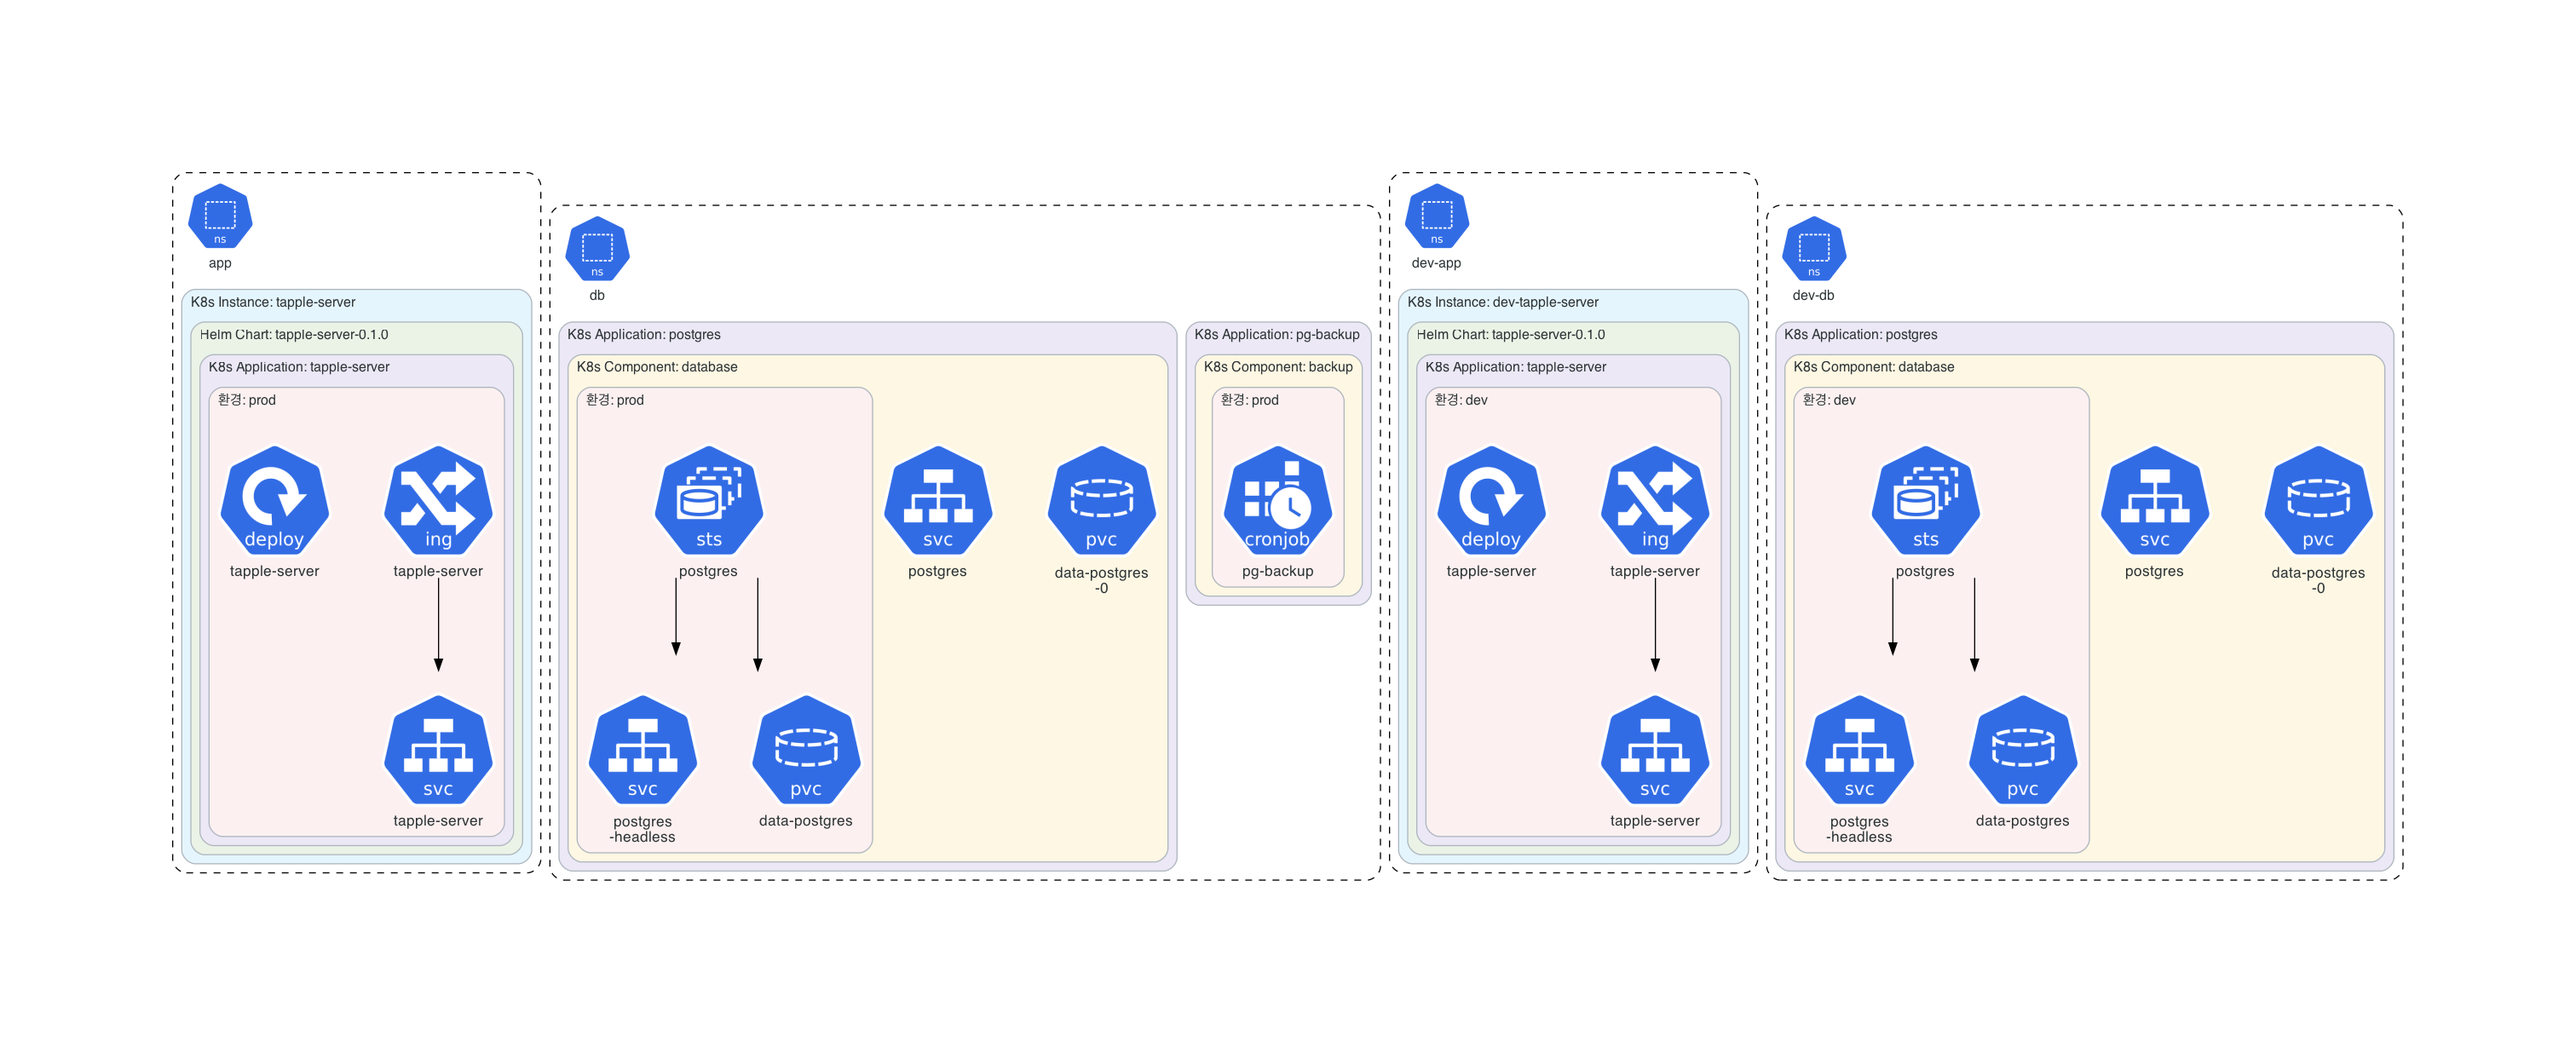
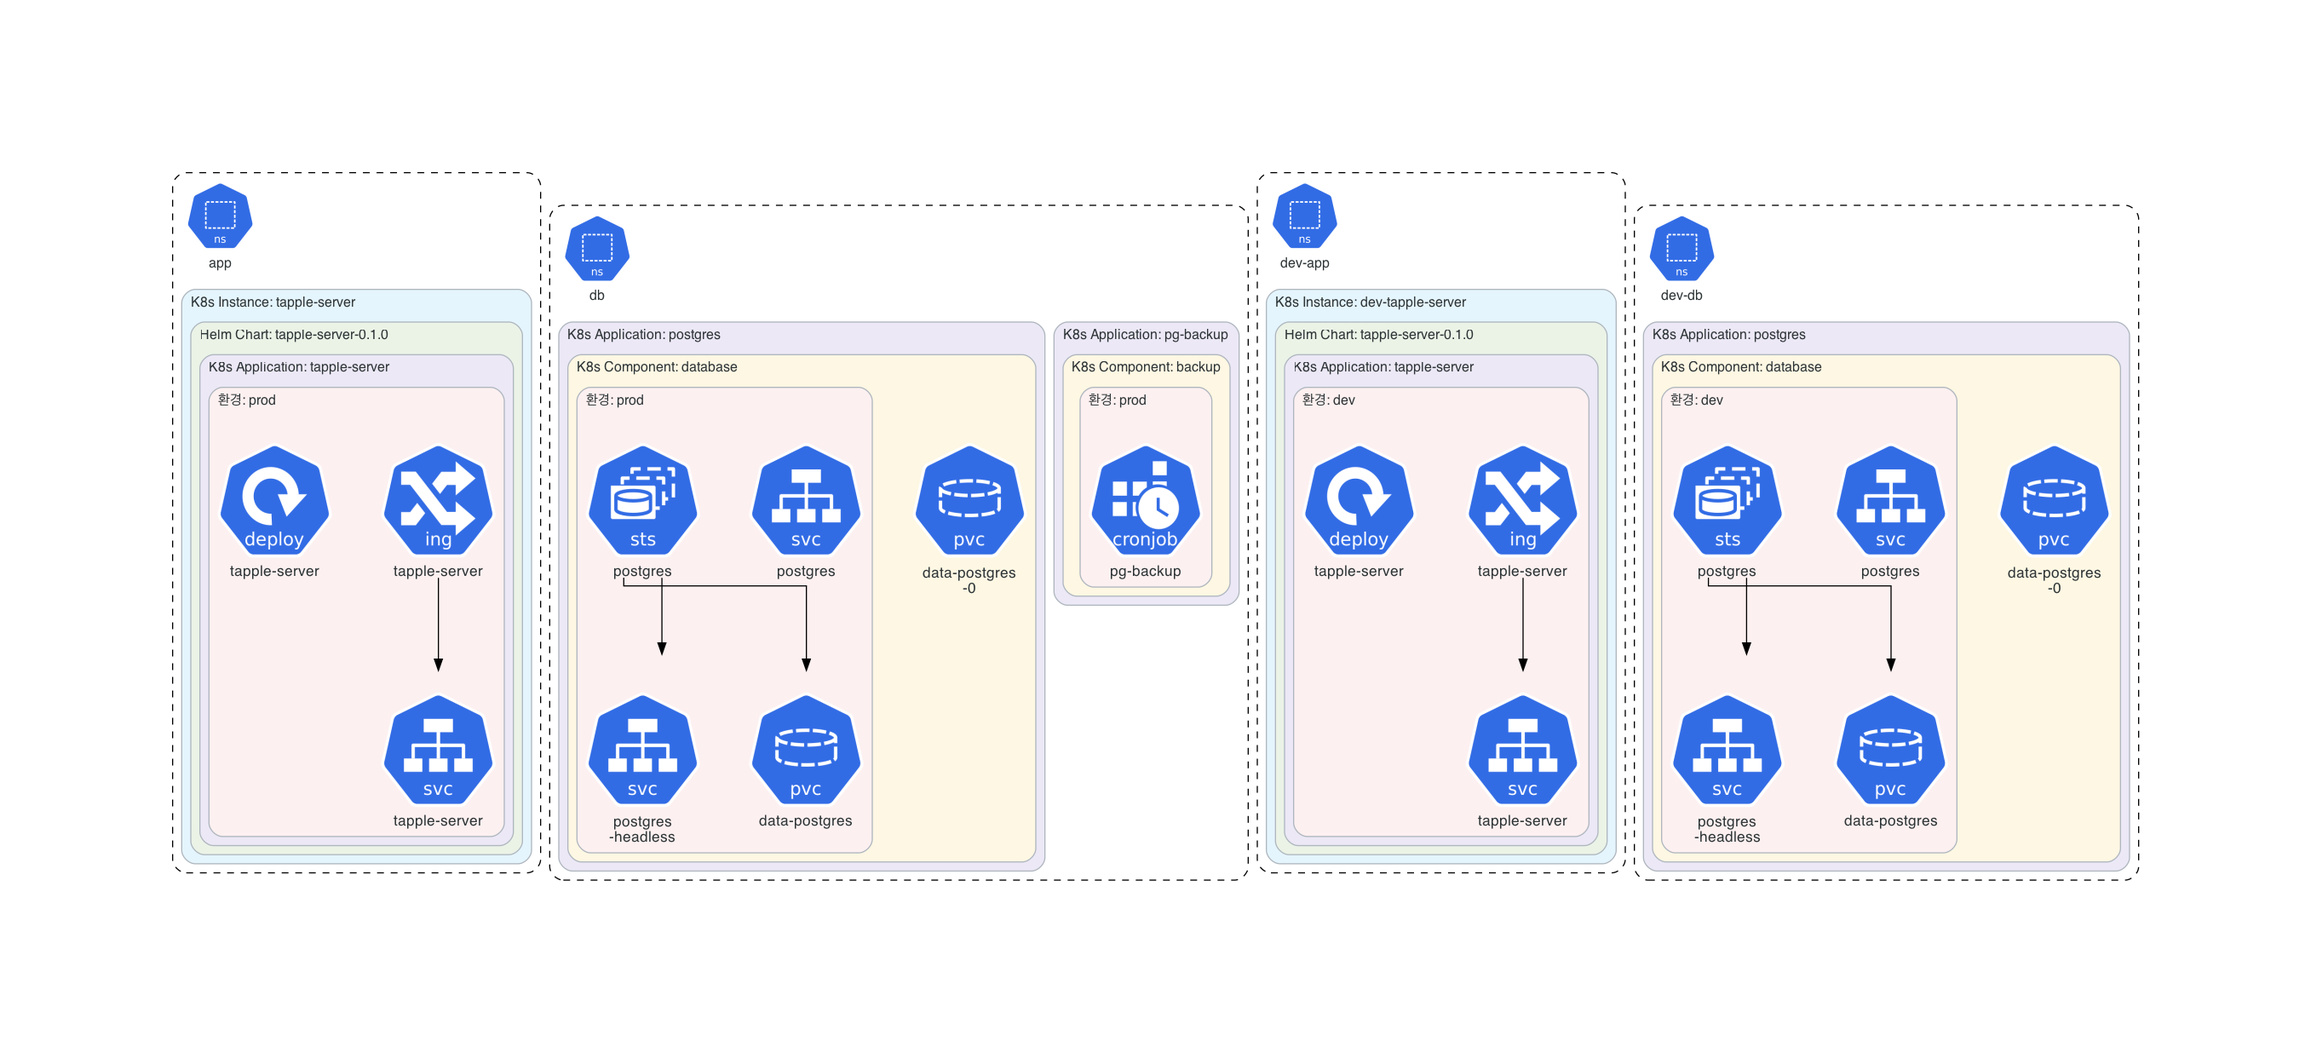
docs: 아키텍처 다이어그램에 prod/dev 매핑 명시 + 그림 재생성
"prod 는 어디 있냐"는 질문에 그림과 캡션 양쪽이 답하게 했다.
PVC 하나가 환경 박스 밖에 남는 이유(volumeClaimTemplates 불변)도 적었다.

Changed region(s): [[0.0619, 0.1537, 0.9289, 0.8301]]

diff --git a/README.md b/README.md
@@ -14,6 +14,10 @@
 
 **아키텍처** — 앱·DB 네임스페이스의 실제 리소스. 라이브 클러스터에서 KubeDiagrams 로 파생시킨 것이라 이 시점의 사실이다.
 
+**prod 는 `app` + `db`, dev 는 `dev-app` + `dev-db`다.** prod 에 접두어가 없는 게 원래 매니페스트 관례라 이름만으로는 드러나지 않아, 각 리소스에 `environment` 라벨을 붙여 그림에 `환경: prod` / `환경: dev` 박스로 나오게 했다. `kubectl get ns -l environment=prod` 로도 고를 수 있다.
+
+`data-postgres-0` PVC 하나만 그 박스 밖에 있다. StatefulSet 의 `spec.volumeClaimTemplates` 가 불변 필드라 라벨을 추가할 수 없다 — 넣으면 기존 워크로드 갱신이 admission 단계에서 거부된다.
+
 <picture>
   <img alt="app·db·dev-app·dev-db 네임스페이스의 Deployment·StatefulSet·Service·Ingress·PVC 구성" src="docs/diagrams/out/architecture-app.png">
 </picture>
